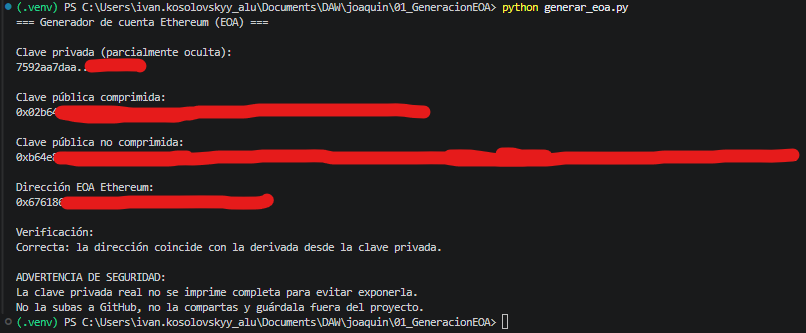
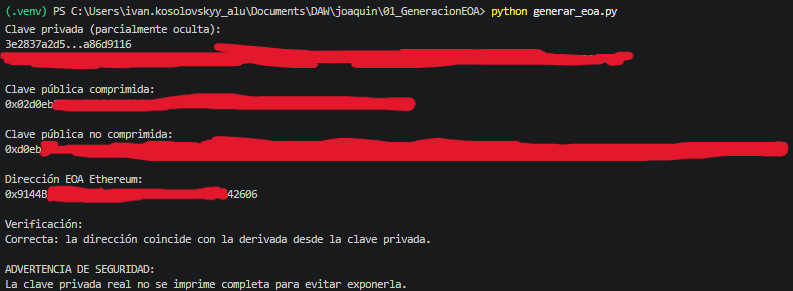
blockchain: Generacion EOA update readme.md

Changed region(s): [[0.0, 0.2784, 0.9987, 0.9897], [0.0, 0.0, 0.8172, 0.2474]]

diff --git a/joaquin/01_GeneracionEOA/README.md b/joaquin/01_GeneracionEOA/README.md
@@ -35,6 +35,8 @@ eth-account==0.14.0
 Para instalar desde el archivo y ejecutar el programa:
 
 ```bash
+python -m venv .venv
+.venv\Scripts\activate
 python -m pip install -r requirements.txt
 python generar_eoa.py
 ```
@@ -113,7 +115,7 @@ Una cuenta importada por clave privada puede requerir que vuelva a importar esa 
 
 ## 6. Address y evidencias
 
-**Dirección EOA definitiva:** `0xF2E2EA90C03E13dE4Fd71527062f6a54481B20Ac`
+**Dirección EOA definitiva:** `0x9144B2AdA8Bd67b74930660F7A358BF977E42606`
 
 - `capturas/ejecucion.png`: salida real del código, clave parcialmente oculta y address definitivo.
 - `capturas/metamask.png`: cuenta importada con ese mismo address visible.
